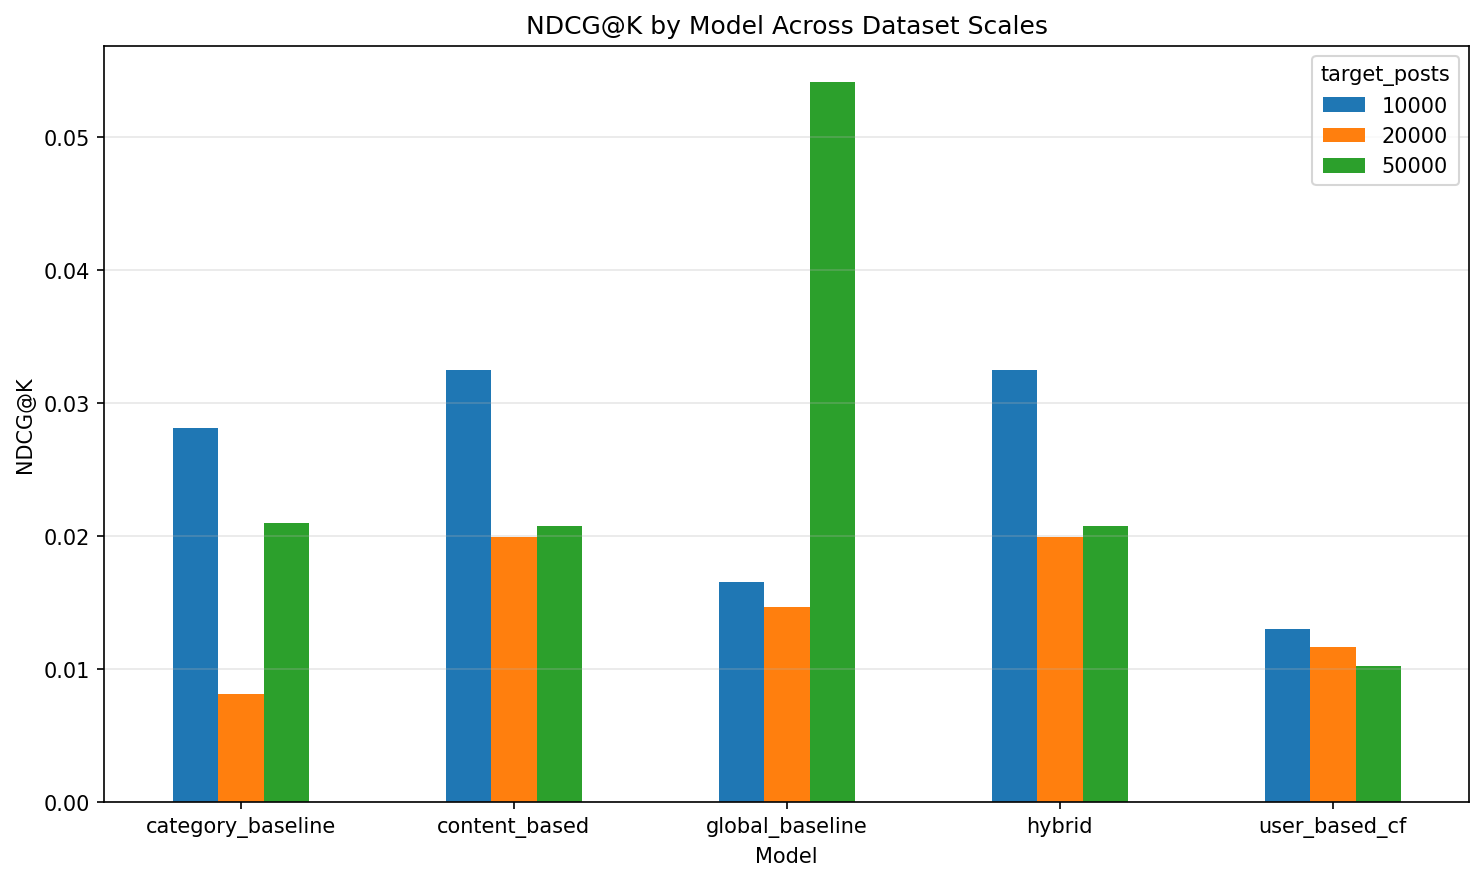
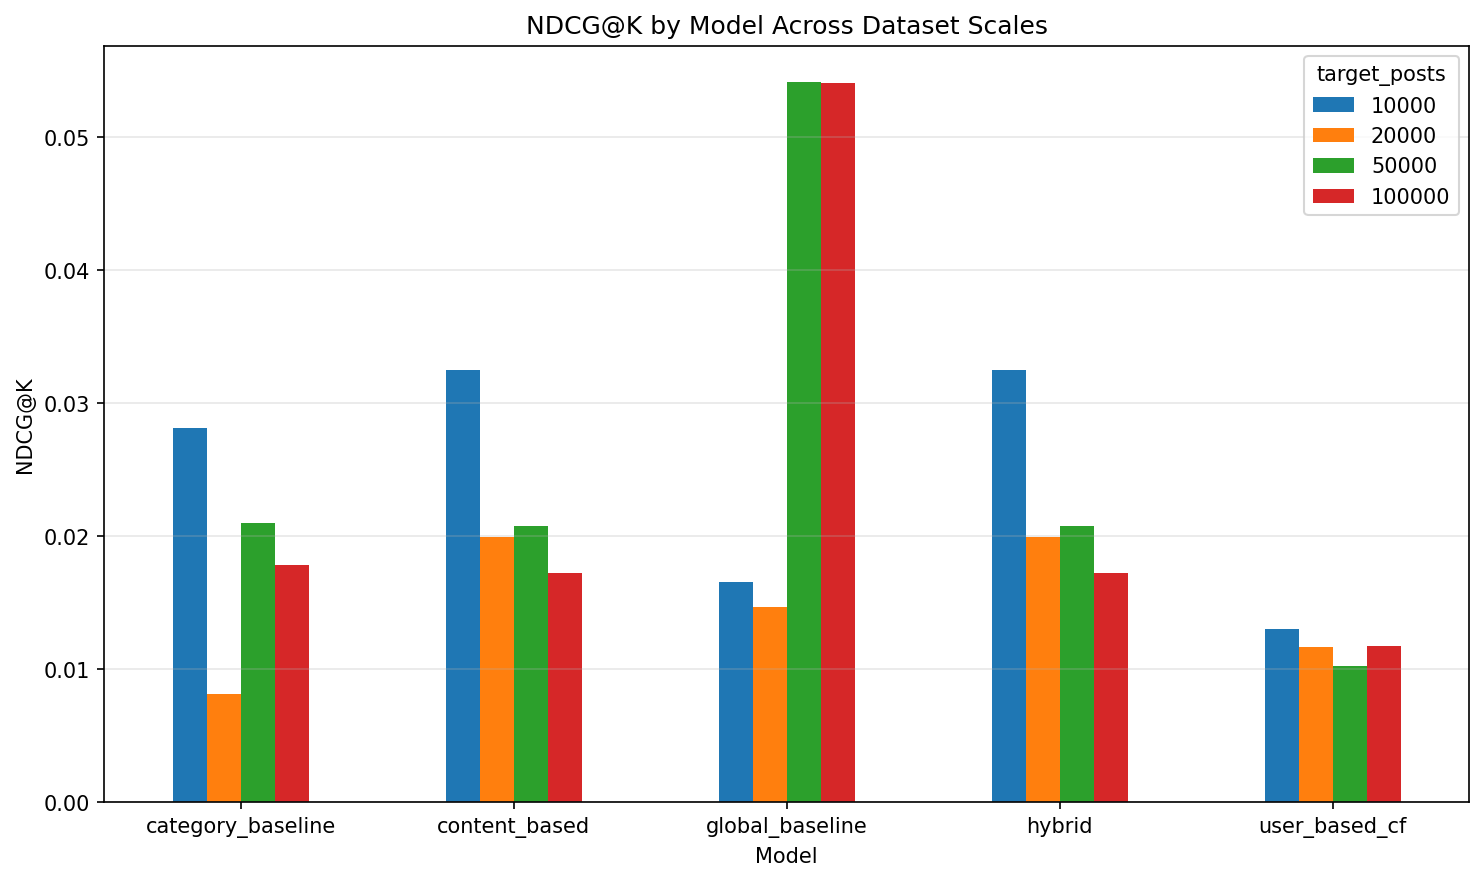
feature: create comparison for 100,000 posts

diff --git a/docs/How_It_Works.md b/docs/How_It_Works.md
@@ -163,6 +163,7 @@ We ran three **scale benchmarks** to answer:
 | 10k | `artifacts/runs/n10000/` | 10,000 | ~30 sec |
 | 20k | `artifacts/runs/n20000/` | 20,000 | ~98 sec |
 | 50k | `artifacts/runs/n50000/` | 50,000 | ~8 min |
+| 100k | `artifacts/runs/n100000/` | 100,000 | ~32 min |
 
 **Combined comparison (for slides / appendix):**
 
@@ -212,7 +213,7 @@ Output: `artifacts/runs/n10000/`
 ### All scales + comparison table
 
 ```bash
-python scripts/run_scale_benchmark.py --synthetic --scales 10000 20000 50000
+python scripts/run_scale_benchmark.py --synthetic --scales 10000 20000 50000 100000
 ```
 
 ### Colab (real data — use for final report numbers)
